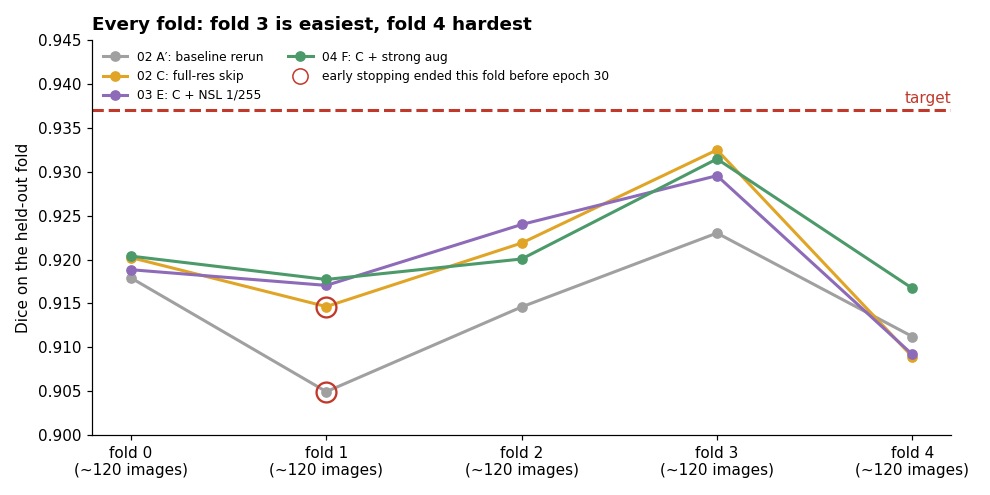
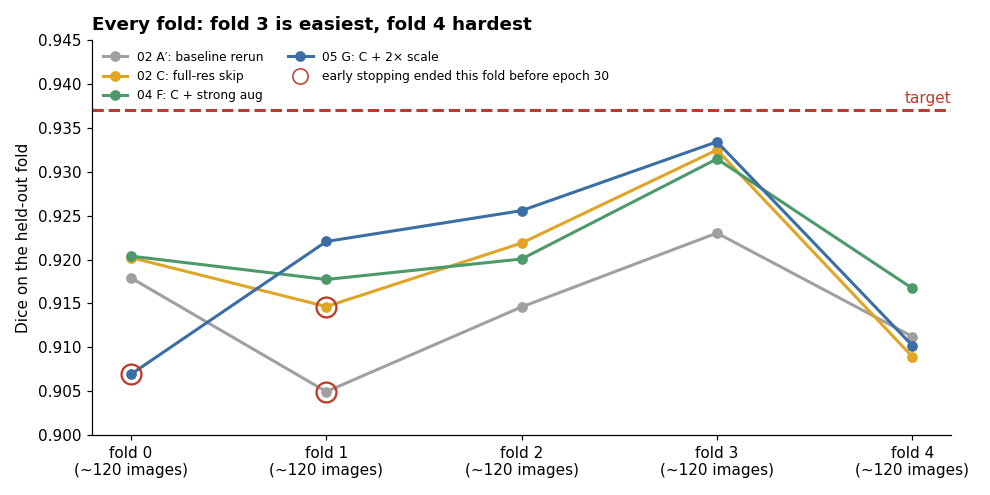
Record spec 05 arm G: C at 2x scale is level with C; fold 0 stopped at epoch 13

diff --git a/reports/make_figures.py b/reports/make_figures.py
@@ -30,6 +30,7 @@ LABELS = {  # slug -> short name for plots
     "s02-scale2": "02 D\n2× input scale",
     "s03-hires-nsl1": "03 E\nC + NSL 1/255",
     "s04-hires-aug": "04 F\nC + strong aug",
+    "s05-hires-scale2": "05 G\nC + 2× scale",
 }
 TYPES = {  # image_type key -> plain name
     "dark-gray/small": "Fluorescence, small",
@@ -86,7 +87,7 @@ def progress(runs):
 
 def folds(runs):
     fig, ax = plt.subplots(figsize=(9, 4.5))
-    shown = {"s02-base": GRAY, "s02-hires": GOLD, "s03-hires-nsl1": "#8e6bb8", "s04-hires-aug": GREEN}
+    shown = {"s02-base": GRAY, "s02-hires": GOLD, "s04-hires-aug": GREEN, "s05-hires-scale2": BLUE}
     for r in [r for r in runs if r["slug"] in shown]:
         c = shown[r["slug"]]
         f = r["m"]["folds"]
@@ -109,12 +110,12 @@ def by_type(runs, splits):
     counts = {t: 0 for t in TYPES}
     for t in splits["image_type"].values():
         counts[t] += 1
-    shown = [r for r in runs if r["slug"] in ("s02-hires", "s03-hires-nsl1", "s04-hires-aug")]
+    shown = [r for r in runs if r["slug"] in ("s02-hires", "s02-scale2", "s04-hires-aug", "s05-hires-scale2")]
     fig, ax = plt.subplots(figsize=(9, 4.5))
-    w = 0.26
-    for j, (r, c) in enumerate(zip(shown, (GOLD, "#8e6bb8", GREEN))):
+    w = 0.2
+    for j, (r, c) in enumerate(zip(shown, (GOLD, GRAY, GREEN, BLUE))):
         vals = [r["m"]["dice_by_type"][t] for t in TYPES]
-        bars = ax.bar(np.arange(len(TYPES)) + (j - 1) * w, vals, w, color=c, label=r["label"].replace("\n", ": "))
+        bars = ax.bar(np.arange(len(TYPES)) + (j - 1.5) * w, vals, w, color=c, label=r["label"].replace("\n", ": "))
         for b, v in zip(bars, vals):
             ax.text(b.get_x() + w / 2, v + 0.001, f"{v:.3f}", ha="center", fontsize=7, rotation=90)
     ax.axhline(TARGET, color=RED, ls="--", lw=2)

diff --git a/specs/05-hires-scale2.md b/specs/05-hires-scale2.md
@@ -1,6 +1,6 @@
 # 05: The full-resolution-skip model at 2× input scale
 
-Status: running.
+Status: done 2026-09-30. No win: +0.00 points, 4 of 5 folds (see Outcome).
 
 ## Question
 
@@ -38,3 +38,38 @@ If its TTA Dice reaches 0.937, we ask whether to score the locked test set.
 ## Budget
 
 Arm D took 285 minutes (fold 0: 73 minutes for 51 epochs). The stem at 512 adds some compute, so arm G should take 5 to 6 hours, and at most about 7.5 hours if every fold runs all 60 epochs. That fits the 12-hour cap. If fold 0 takes more than 100 minutes, we stop and ask.
+
+## Outcome
+
+| Arm | Run | CV Dice | Dice with TTA | IoU | Pooled Dice | FGSM Dice | Epochs per fold | Minutes |
+|---|---|---|---|---|---|---|---|---|
+| C | 20260925-b3fe577-s02-hires | 0.9196 ± 0.0088 | 0.9211 | 0.8588 | 0.9378 | 0.818 | 48/27/36/47/39 | 100 |
+| D | 20260925-cf38771-s02-scale2 | 0.9190 ± 0.0082 | 0.9197 | 0.8579 | 0.9380 | 0.833 | 51/28/46/36/41 | 285 |
+| G | 20260929-e7415b1-s05-hires-scale2 | 0.9196 ± 0.0109 | 0.9206 | 0.8588 | 0.9376 | 0.824 | 13/35/55/42/47 | 343 |
+
+G per fold: 0.9070, 0.9221, 0.9256, 0.9334, 0.9102, which is −1.33, +0.74, +0.37, +0.09 and +0.13 against C.
+G is ahead on 4 of 5 folds, but its mean is level with C (+0.00), so it fails the 0.5-point part of the win rule.
+
+Fold 0 decides the result. Its stop-set Dice peaked at 0.913 in epoch 3, still in warm-up, and no later epoch beat
+that peak within the 10-epoch patience, so it stopped at epoch 13 and kept the epoch-3 weights. On the other four folds G averages
++0.33 against C. Fold 1 went the other way: its stop-set Dice dropped from 0.935 to about 0.90 after epoch 25 and
+stayed there, and the fold kept its epoch-25 weights.
+
+Dice by image type:
+
+| Type | Images | C | D | G |
+|---|---|---|---|---|
+| Fluorescence, small | 434 | 0.921 | 0.919 | 0.920 |
+| Fluorescence, large | 112 | 0.946 | 0.946 | 0.947 |
+| H&E, colour | 108 | 0.889 | 0.894 | 0.892 |
+| Brightfield, grayscale | 16 | 0.893 | 0.912 | 0.908 |
+
+G keeps most of D's brightfield and H&E gains, but not C's small-fluorescence gain. Brightfield is only 16 images,
+so its swings are noisy. The prediction grids look like C's: the errors are thin rims at nucleus edges.
+
+Peak GPU memory was 15.2 GB, just inside the T4's limit, well above the 10 GB estimated for training. The peak
+is logged for the whole run, so it doesn't show which step set it. The run took 343 minutes, 3.4 times C.
+
+Verdict: C stays the baseline. The 2× scale is too costly for what it gives. Early stopping has now cut one fold
+short before epoch 30 in 4 of the 6 runs since spec 02 began (A′, C, D and G), so the next spec should fix it: stop early only after a minimum
+number of epochs, or train a fixed number of epochs.

diff --git a/JOURNAL.md b/JOURNAL.md
@@ -98,3 +98,10 @@ CV Dice 0.9197 (0.9212 with TTA), level with C (+0.01) and ahead on 3 of 5 folds
 rose from 0.818 to 0.905, the same trade as spec 01's ε 2/255. It took 227 minutes, 2.3 times C. That closes NSL
 for the Dice target: it buys robustness, not accuracy. Both spec 03 and 04 kernels waited about 6 hours for a
 GPU and started training at the same minute, so the delay was Kaggle's queue, not our code.
+
+## 2026-09-30: spec 05 arm G (C at 2× input scale), run 20260929-e7415b1-s05-hires-scale2
+CV Dice 0.9196 (0.9206 with TTA), exactly level with C and ahead on 4 of 5 folds, so no win. Fold 0 lost 1.33
+points: its stop-set Dice peaked at epoch 3, during warm-up, and training stopped at epoch 13. The other folds gained
+0.33 on average. G kept most of D's brightfield and H&E gains but not C's small-fluorescence gain. It took 343
+minutes (3.4 times C) and peaked at 15.2 GB, close to the T4's limit. Early stopping cut a fold short in 4 of the 6 runs
+since spec 02 began, so fixing it comes next.
